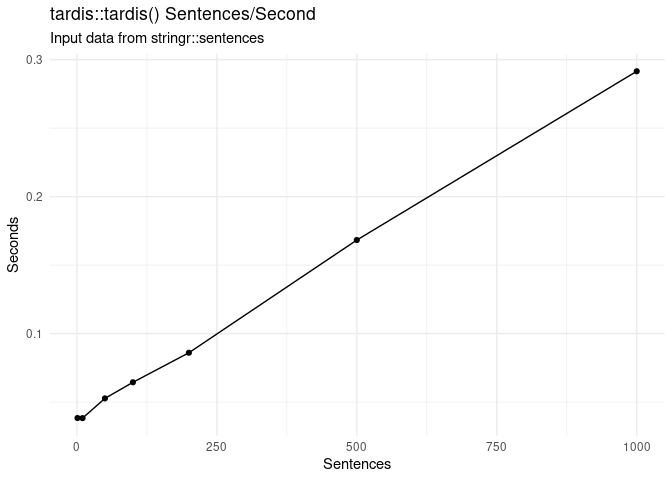
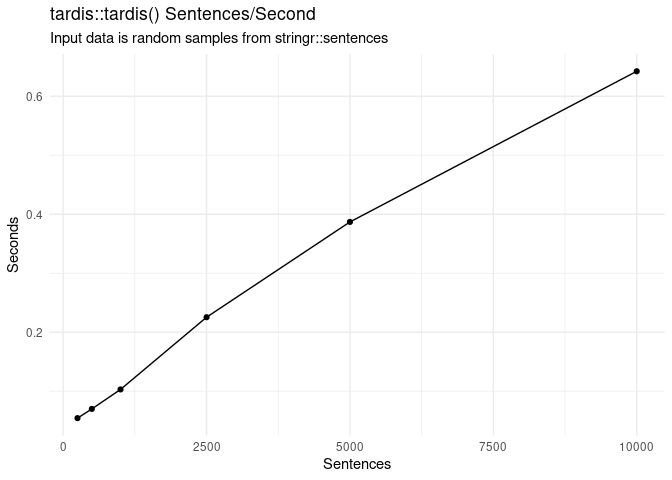
Code cleanup; readme edits; clean R CMD CHECK.

diff --git a/README.md b/README.md
@@ -21,6 +21,7 @@ constructs beyond sentiment.
 -   Handles ASCII and UTF-8 emojis :) 👍
 -   Based on simple surveyable rules
 -   Highly customizable
+-   Pretty fast, uses cpp11
 
 ## Installation
 
@@ -136,16 +137,13 @@ tardis::tardis(text) %>%
 
 ## Benchmarking
 
-The function is a bit slow right now, handling roughly 3000
-sentences/second. Most of the bottlenecks I’ve identified are with
-regular expressions using emojis and some `tidyr` functions. Here is a
-rough benchmark for the sample data in `stringr::sentences`:
+The major bottlenecks have been addressed using `cpp11` so the function
+is reasonably fast, handling roughly 13000 sentences/second using test
+data from `stringr::sentences`:
 
 <img src="man/figures/README-unnamed-chunk-5-1.png" width="100%" />
 
-I’d like to get this much faster but it may require re-writing the
-bottlenecks using RCpp.
+## Known issues / Future directions
 
-## Known issues
-
--   Larger datasets (e.g. >1000 reddit comments) can run slowly.
+-   Testing and generalizing with other dictionaries/semantic
+    constructs.

diff --git a/NEWS.md b/NEWS.md
@@ -1,0 +1,8 @@
+# tardis 0.1.2.9000
+
+* Added a `NEWS.md` file to track changes to the package.
+* Migrated internally to use cpp11 for roughly 6x speed increase.
+
+# tardis 0.1.1.9000
+
+* Initial working version on GitHub.
